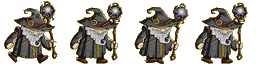
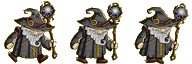
Can cast energy bolt. Needs refactor to make more generic.

diff --git a/src/game/engine/update.ts b/src/game/engine/update.ts
@@ -1,7 +1,10 @@
 import { gameObjects } from '../game-objects'
 import { controls } from '../init'
+import { EnergyBolt } from '../objects/energy-bolt'
 
 const sideVelocityLimit = 4
+
+let playerNextSpellTime = 0
 
 // eslint-disable-next-line @typescript-eslint/no-unused-vars
 export const update = (scene: Phaser.Scene, time: number, delta: number): void => {
@@ -25,6 +28,14 @@ export const update = (scene: Phaser.Scene, time: number, delta: number): void =
     guy.flipX = false
   }
 
+  if (controls.spell.isDown && time > playerNextSpellTime) {
+    const spell = new EnergyBolt(scene.matter.world, guy.x, guy.y, time, 'energy-bolt', 0)
+    spell.fire(guy.flipX ? -1 : 1, 1000)
+
+    gameObjects.spells.push(spell)
+    playerNextSpellTime = time + 1000
+  }
+
   if (Math.abs(guy.body.velocity.x) > sideVelocityLimit) {
     guy.setVelocity(guy.body.velocity.x > 0 ? sideVelocityLimit : -sideVelocityLimit, guy.body.velocity.y)
   }
@@ -38,6 +49,14 @@ export const update = (scene: Phaser.Scene, time: number, delta: number): void =
   // This will be reset by the collider every loop so we always
   // want to set this to false to see if the guy is still touching the floor
   guy.touchingFloor = false
+
+  // Update all active spells and check if any of them have expired
+  gameObjects.spells.forEach((spell) => {
+    spell.update(time, delta)
+  })
+  if (gameObjects.spells.some((spell) => spell.remove)) {
+    gameObjects.spells = gameObjects.spells.filter((spell) => !spell.remove)
+  }
 }
 
 /*

diff --git a/src/game/objects/energy-bolt.ts b/src/game/objects/energy-bolt.ts
@@ -1,0 +1,54 @@
+export class EnergyBolt extends Phaser.Physics.Matter.Sprite {
+  constructor(
+    world: Phaser.Physics.Matter.World,
+    x: number,
+    y: number,
+    public timeCast: number,
+    texture: string,
+    frame: string | integer
+  ) {
+    super(world, x, y, texture, frame, {
+      friction: 0,
+      frictionStatic: 0,
+      frictionAir: 0,
+      density: 0.01,
+      ignoreGravity: true,
+      collisionFilter: { category: 4, mask: 1 },
+    })
+
+    this.particleManager = this.scene.add.particles('energy-bolt')
+  }
+
+  particleManager: Phaser.GameObjects.Particles.ParticleEmitterManager
+
+  lifespan = 0
+  remove = false
+
+  fire(direction: number, lifespan: number): void {
+    this.setVelocity(direction * 8, 0)
+
+    this.lifespan = lifespan
+
+    const emitter = this.particleManager.createEmitter({
+      speed: 30,
+      scale: { start: 1, end: 0 },
+      blendMode: 'ADD',
+      lifespan: 250,
+    })
+
+    emitter.startFollow(this)
+  }
+
+  update(time: number, delta: number): void {
+    this.lifespan -= delta
+    if (this.lifespan <= 0) {
+      this.done()
+    }
+  }
+
+  done(): void {
+    this.particleManager.destroy()
+    this.destroy()
+    this.remove = true
+  }
+}

diff --git a/src/game/init.ts b/src/game/init.ts
@@ -5,6 +5,7 @@ import { sceneUpdate } from './scene-update'
 export let controls: {
   cursors: Phaser.Types.Input.Keyboard.CursorKeys
   next: Phaser.Input.Keyboard.Key
+  spell: Phaser.Input.Keyboard.Key
 }
 
 function scenePreload(this: Phaser.Scene) {
@@ -13,12 +14,14 @@ function scenePreload(this: Phaser.Scene) {
 
   // Sprites
   this.load.spritesheet('guy', 'images/wizard.png', { frameWidth: 64 })
+  this.load.spritesheet('energy-bolt', 'images/spells/energy-bolt.png', { frameWidth: 16 })
 }
 
 function sceneCreate(this: Phaser.Scene) {
   controls = {
     cursors: this.input.keyboard.createCursorKeys(),
     next: this.input.keyboard.addKey(Phaser.Input.Keyboard.KeyCodes.SPACE),
+    spell: this.input.keyboard.addKey(Phaser.Input.Keyboard.KeyCodes.CTRL),
   }
 
   // this.matter.world.setBounds(0, 0, settingsHelpers.worldBoundWidth, settingsHelpers.worldBoundHeight)
@@ -37,7 +40,7 @@ export const startGame = (): void => {
       default: 'matter',
       matter: {
         enableSleeping: false,
-        debug: true,
+        // debug: true,
         // gravity: {
         //   y: 1,
         //   x: 0,

diff --git a/src/game/engine/layout.ts b/src/game/engine/layout.ts
@@ -25,9 +25,11 @@ export const layout = (scene: Phaser.Scene, roomKey: string): void => {
   // Floor pieces. Player can stand on and jump from these
   layout.floors?.forEach((f) => {
     const floorKey = layout.images?.some((i) => !i.global && i.key === f.key) ? `${roomKey}-${f.key}` : f.key
-    // TODO: Get the width/height from the image size
-    const width = 128
-    const height = 64
+    const imageData = scene.game.textures.get(floorKey).get(0)
+
+    // Get the width/height from the image size
+    const width = imageData.width
+    const height = imageData.height
 
     for (let i = 0; i < f.repeat; i++) {
       currentObjects.images.push(scene.add.image(f.x + i * width, f.y, floorKey))

diff --git a/src/game/states/game-start.ts b/src/game/states/game-start.ts
@@ -10,16 +10,13 @@ export const gameStartPreload = (scene: Phaser.Scene, roomKey: string): void => 
 }
 
 const gameStartInit = (scene: Phaser.Scene): void => {
-  gameObjects.guy = new Guy(scene.matter.world, 1000, 0, 'guy', 0, {
-    friction: 1,
-    frictionStatic: 5,
-    density: 0.025,
-  })
+  gameObjects.guy = new Guy(scene.matter.world, 1000, 0, 'guy', 0)
   scene.anims.create({
     key: 'run',
-    frames: scene.anims.generateFrameNumbers('guy', { start: 0, end: 3 }),
+    frames: scene.anims.generateFrameNumbers('guy', { start: 0, end: 2 }),
     frameRate: 10,
     repeat: -1,
+    yoyo: true,
   })
 
   // The normal here tells us if he has collided with something "down"

diff --git a/src/game/objects/guy.ts b/src/game/objects/guy.ts
@@ -1,13 +1,11 @@
 export class Guy extends Phaser.Physics.Matter.Sprite {
-  constructor(
-    world: Phaser.Physics.Matter.World,
-    x: number,
-    y: number,
-    texture: string,
-    frame: string | integer,
-    options?: Phaser.Types.Physics.Matter.MatterBodyConfig
-  ) {
-    super(world, x, y, texture, frame, options)
+  constructor(world: Phaser.Physics.Matter.World, x: number, y: number, texture: string, frame: string | integer) {
+    super(world, x, y, texture, frame, {
+      friction: 1,
+      frictionStatic: 5,
+      density: 0.025,
+      collisionFilter: { category: 2, mask: 1 },
+    })
   }
 
   touchingFloor = false

diff --git a/src/game/game-objects.ts b/src/game/game-objects.ts
@@ -1,3 +1,4 @@
+import { EnergyBolt } from './objects/energy-bolt'
 import { Guy } from './objects/guy'
 
 /**
@@ -7,6 +8,7 @@ import { Guy } from './objects/guy'
  */
 class GameObjects {
   guy!: Guy
+  spells: EnergyBolt[] = []
 }
 
 export const gameObjects = new GameObjects()
